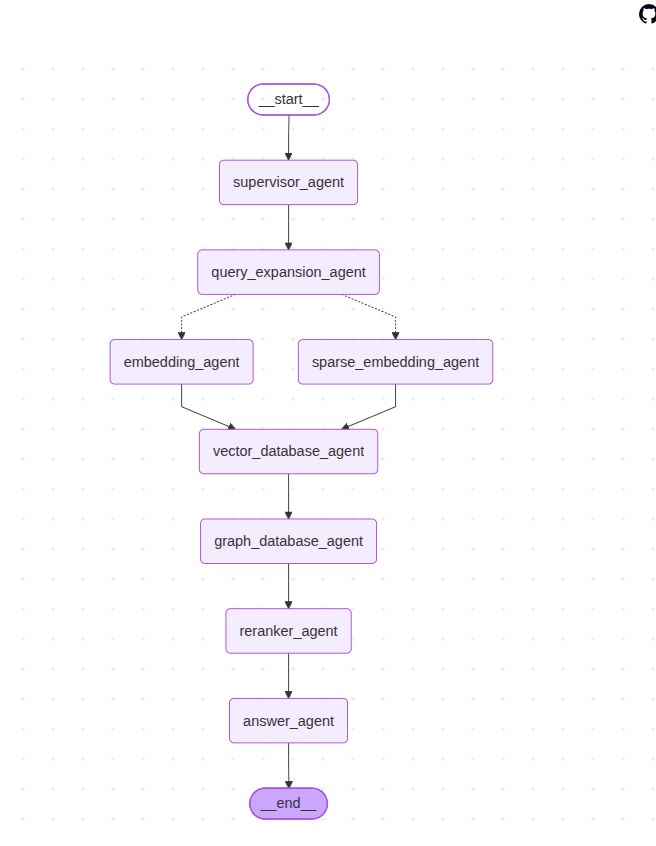
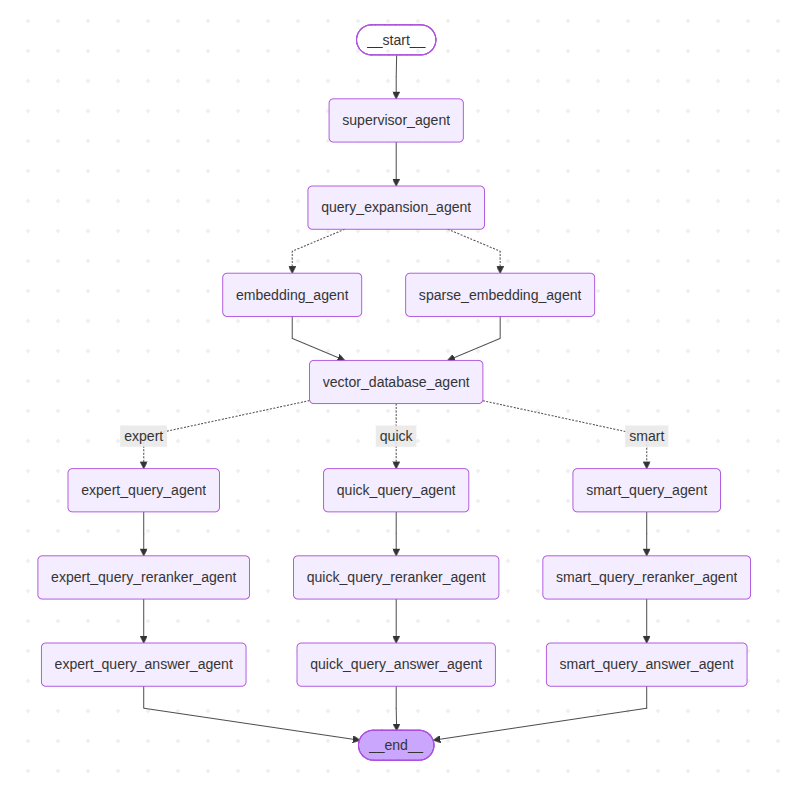
refactor smart query

diff --git a/app/core/workflow/lgraph/document_query_graph.py b/app/core/workflow/lgraph/document_query_graph.py
@@ -1,11 +1,11 @@
-from app.core.schemas.chunk_schema import ChunkQuerySchema, ChunkPrevNextVecSimilarity
+from app.core.schemas.chunk_schema import ChunkQuerySchema, ChunkPrevNextVecSimilarity, ContextChunk, ChunkRole, ROLE_PRIORITY
 from ..schemas.provider_schema import QueryProviderSchema, LLMProviderSchema
+from .prompts.answer_prompt import BASIC_ANSWER_PROMPT, SMART_ANSWER_PROMPT
 from qdrant_client.conversions.common_types import QueryResponse
 from ..provider import WorkflowEmbedder, WorkflowSparseEmbedder
 from app.core.qdrant.retrieval import QDrantRetrieval
 from ..provider import WorkflowReranker, WorkflowLLM
 from langgraph.graph import StateGraph, START, END
-from .prompts.answer_prompt import ANSWER_PROMPT
 from app.core.schemas import query_schema as qs
 from langchain_core.documents import Document
 from typing import TypedDict, Annotated, List
@@ -51,8 +51,8 @@ class DQGState(TypedDict):
     queries: list[str] | None
     document_id: uuid.UUID | None
     points: list[ScoredPoint] | None
-    chunks: list[ChunkQuerySchema] | None
-    reranked_chunks: list[ChunkQuerySchema] | None
+    chunks: list[ChunkQuerySchema | ContextChunk] | None
+    reranked_chunks: list[ChunkQuerySchema | ContextChunk] | None
     query_dense_embedding: Annotated[list[float] | None, merge_optional]
     query_sparse_embedding: Annotated[SparseEmbedding | None, merge_optional]
 
@@ -275,44 +275,96 @@ class DocumentQueryGraph():
 
             if points is None or len(points) == 0:
                 raise Exception("No points found")
+
             document_id = state["document_id"]
-            chunk_ids: list[str] = [
-                chunk_id
-                for p in points
-                if p.payload is not None and (chunk_id := p.payload.get("chunk_id")) is not None
-            ]
-            prev_next_vector_similar_chunks: List[ChunkPrevNextVecSimilarity] = await self._chunk_n4j.get_prev_next_vector_similar_chunks(chunk_ids=chunk_ids, gte__vector_score=Env.GTE_VECTOR_SIMILAR, document_id=document_id)
 
-            chunks: list[ChunkQuerySchema] = []
-            for c in prev_next_vector_similar_chunks:
-                prev_chunk_id = c.prev_chunk.chunk_id if c.prev_chunk is not None else None
-                prev_chunk_text = c.prev_chunk.text if c.prev_chunk is not None else None
-                prev_chunk_weight = c.prev_chunk.weight if c.prev_chunk is not None else None
+            # Building seed chunks from Qdrant points
+            seed_map: dict[str, ContextChunk] = {}
+            for p in points:
+                if p.payload is None:
+                    continue
+                chunk_id = p.payload.get("chunk_id")
+                text = p.payload.get("text")
+                if chunk_id is None or text is None:
+                    continue
+                seed_map[chunk_id] = ContextChunk(
+                    chunk_id=chunk_id,
+                    text=text,
+                    role=ChunkRole.SEED,
+                    vector_score=p.score,
+                    seed_chunk_ids=[chunk_id],
+                )
 
-                next_chunk_id = c.next_chunk.chunk_id if c.next_chunk is not None else None
-                next_chunk_text = c.next_chunk.text if c.next_chunk is not None else None
-                next_chunk_weight = c.next_chunk.weight if c.next_chunk is not None else None
+            chunk_ids = list(seed_map.keys())
 
-                if prev_chunk_id is not None and prev_chunk_text is not None and prev_chunk_weight is not None:
-                    chunks.append(ChunkQuerySchema(chunk_id=prev_chunk_id, text=prev_chunk_text, weight=prev_chunk_weight))
-                if next_chunk_id is not None and next_chunk_text is not None and next_chunk_weight is not None:
-                    chunks.append(ChunkQuerySchema(chunk_id=next_chunk_id, text=next_chunk_text, weight=next_chunk_weight))
+            prev_next_vs_chunks: List[ChunkPrevNextVecSimilarity] = (
+                await self._chunk_n4j.get_prev_next_vector_similar_chunks(
+                    chunk_ids=chunk_ids,
+                    gte__vector_score=Env.GTE_VECTOR_SIMILAR,
+                    document_id=document_id,
+                )
+            )
 
-                for vs_chunk in c.vector_similar_chunks or []:
-                    chunks.append(ChunkQuerySchema(chunk_id=vs_chunk.chunk_id, text=vs_chunk.text, weight=vs_chunk.weight))
+            # chunk_id -> ContextChunk, starts with seeds
+            merged: dict[str, ContextChunk] = dict(seed_map)
 
-            # Find unique chunks
-            unique_chunk_ids: list[str] = []
-            unique_chunks: list[ChunkQuerySchema] = []
+            def _merge(chunk_id: str, text: str, role: ChunkRole, seed_id: str,
+                    vector_score: float | None = None, position_weight: float | None = None):
+                if chunk_id in merged:
+                    existing = merged[chunk_id]
+                    # upgrade role if incoming has higher priority
+                    if ROLE_PRIORITY[role] < ROLE_PRIORITY[existing.role]:
+                        existing.role = role
+                        existing.vector_score = vector_score or existing.vector_score
+                        existing.position_weight = position_weight or existing.position_weight
+                    if seed_id not in existing.seed_chunk_ids:
+                        existing.seed_chunk_ids.append(seed_id)
+                else:
+                    merged[chunk_id] = ContextChunk(
+                        chunk_id=chunk_id,
+                        text=text,
+                        role=role,
+                        vector_score=vector_score,
+                        position_weight=position_weight,
+                        seed_chunk_ids=[seed_id],
+                    )
 
-            for chunk in chunks:
-                if chunk.chunk_id not in unique_chunk_ids:
-                    unique_chunk_ids.append(chunk.chunk_id)
-                    unique_chunks.append(chunk)
+            for c in prev_next_vs_chunks:
+                seed_id = c.chunk_id
 
+                if c.prev_chunk is not None:
+                    _merge(
+                        chunk_id=c.prev_chunk.chunk_id,
+                        text=c.prev_chunk.text,
+                        role=ChunkRole.PREV,
+                        seed_id=seed_id,
+                        position_weight=c.prev_chunk.weight,
+                    )
+
+                if c.next_chunk is not None:
+                    _merge(
+                        chunk_id=c.next_chunk.chunk_id,
+                        text=c.next_chunk.text,
+                        role=ChunkRole.NEXT,
+                        seed_id=seed_id,
+                        position_weight=c.next_chunk.weight,
+                    )
+
+                for vs in c.vector_similar_chunks or []:
+                    _merge(
+                        chunk_id=vs.chunk_id,
+                        text=vs.text,
+                        role=ChunkRole.VECTOR_SIMILAR,
+                        seed_id=seed_id,
+                        vector_score=vs.weight,
+                    )
+
+            unique_chunks = list(merged.values())
             return {"chunks": unique_chunks}
+
         except Exception as e:
             logger.error({"message": "Failed in smart query", "error": str(e)})
+            raise e
 
     async def _expert_query(self, state: DQGState):
         try:
@@ -328,6 +380,9 @@ class DocumentQueryGraph():
 
             if chunks is None or len(chunks) == 0:
                 raise Exception("No chunks found")
+
+            plain_chunks: list[ChunkQuerySchema] = [c for c in chunks if isinstance(c, ChunkQuerySchema)]
+
             providers = state["providers"]
             reranker_provider = providers.reranker.provider
             reranker_model = providers.reranker.model
@@ -335,7 +390,7 @@ class DocumentQueryGraph():
             reranker = WorkflowReranker().reranker(model=reranker_model, provider=reranker_provider)
 
             docs: list[Document] = []
-            for chunk in chunks:
+            for chunk in plain_chunks:
                 docs.append(Document(page_content=chunk.text, metadata={"chunk_id": chunk.chunk_id, "weight": chunk.weight}))
 
             rerank_docs = reranker.rerank(query=query, docs=docs, top_k=top_k)
@@ -357,11 +412,12 @@ class DocumentQueryGraph():
             if reranked_chunks is None or len(reranked_chunks) == 0:
                 raise Exception("No reranked chunks found")
 
+            plain_reranked_chunks: list[ChunkQuerySchema] = [c for c in reranked_chunks if isinstance(c, ChunkQuerySchema)]
             query = state["query"]
             providers = state["providers"]
             llm_provider = providers.llm
 
-            answer = await self._qq_llm_call(query=query, provider=llm_provider, reranked_chunks=reranked_chunks)
+            answer = await self._qq_llm_call(query=query, provider=llm_provider, reranked_chunks=plain_reranked_chunks)
 
             return {"answer": answer}
         except Exception as e:
@@ -375,7 +431,7 @@ class DocumentQueryGraph():
             model = provider.model
             chunks_str = self._qq_format_chunks(reranked_chunks)
 
-            prompt = ANSWER_PROMPT.format(context=chunks_str, query=query)
+            prompt = BASIC_ANSWER_PROMPT.format(context=chunks_str, query=query)
             llm = WorkflowLLM.llm(provider=llm_provider, api_key=api_key, model=model)
             response = await llm.ainvoke(prompt=prompt)
 
@@ -392,17 +448,154 @@ class DocumentQueryGraph():
 
     async def _sq_reranker(self, state: DQGState):
         try:
-            pass
+            query = state["query"]
+            chunks = state["chunks"]
+            if chunks is None or len(chunks) == 0:
+                raise Exception("No chunks found")
+
+            smart_chunks: list[ContextChunk] = [c for c in chunks if isinstance(c, ContextChunk)]
+
+            top_k = state["top_k"]
+
+            if not chunks:
+                raise Exception("No chunks found")
+
+            providers = state["providers"]
+            reranker_provider = providers.reranker.provider
+            reranker_model = providers.reranker.model
+
+            reranker = WorkflowReranker().reranker(model=reranker_model, provider=reranker_provider)
+
+            docs: list[Document] = [
+                Document(
+                    page_content=chunk.text,
+                    metadata={
+                        "chunk_id": chunk.chunk_id,
+                        "role": chunk.role,
+                        "vector_score": chunk.vector_score,
+                        "position_weight": chunk.position_weight,
+                        "seed_chunk_ids": chunk.seed_chunk_ids,
+                    },
+                )
+                for chunk in smart_chunks
+            ]
+
+            reranked_docs = reranker.rerank(query=query, docs=docs, top_k=top_k)
+
+            reranked_chunks: list[ContextChunk] = [
+                ContextChunk(
+                    chunk_id=doc.metadata["chunk_id"],
+                    text=doc.page_content,
+                    role=doc.metadata["role"],
+                    vector_score=doc.metadata["vector_score"],
+                    position_weight=doc.metadata["position_weight"],
+                    seed_chunk_ids=doc.metadata["seed_chunk_ids"],
+                )
+                for doc in reranked_docs
+            ]
+
+            return {"reranked_chunks": reranked_chunks}
         except Exception as e:
             logger.error({"message": "Failed to sq_reranker", "error": str(e)})
             raise e
 
     async def _sq_answer(self, state: DQGState):
         try:
-            pass
+            reranked_chunks = state["reranked_chunks"]
+            if reranked_chunks is None or len(reranked_chunks) == 0:
+                raise Exception("No reranked chunks found")
+
+            smart_reranked_chunks: list[ContextChunk] = [c for c in reranked_chunks if isinstance(c, ContextChunk)]
+            query = state["query"]
+            providers = state["providers"]
+            llm_provider = providers.llm
+
+            answer = await self._sq_llm_call(query=query, provider=llm_provider, reranked_chunks=smart_reranked_chunks)
+
+            return {"answer": answer}
         except Exception as e:
             logger.error({"message": "Failed to sq_answer", "error": str(e)})
             raise e
+
+    async def _sq_llm_call(
+        self,
+        query: str,
+        provider: LLMProviderSchema,
+        reranked_chunks: list[ContextChunk],
+    ) -> str:
+        try:
+            llm_provider = provider.provider
+            api_key = provider.api_key
+            model = provider.model
+
+            llm = WorkflowLLM.llm(provider=llm_provider, api_key=api_key, model=model)
+
+            context = self._sq_format_chunks(reranked_chunks)
+            prompt = SMART_ANSWER_PROMPT.format(context=context, query=query)
+
+            response = await llm.ainvoke(prompt=prompt)
+            return response.content
+
+        except Exception as e:
+            logger.error({"message": "Failed to llm call", "error": str(e)})
+            raise e
+
+    def _sq_format_chunks(self, chunks: list[ContextChunk]) -> str:
+        """
+        Groups chunks by their seed and renders a tree per seed.
+        Chunks that are seeds themselves are shown as roots.
+        PREV/NEXT/VECTOR_SIMILAR are shown underneath their seed(s).
+        """
+        # Collect seeds in order (preserve Qdrant ranking)
+        seed_ids: list[str] = [c.chunk_id for c in chunks if c.role == ChunkRole.SEED]
+
+        # Map seed_id -> list of attached context chunks
+        context_map: dict[str, list[ContextChunk]] = {sid: [] for sid in seed_ids}
+        orphans: list[ContextChunk] = []  # non-seed chunks whose seed wasn't in top results
+
+        for chunk in chunks:
+            if chunk.role == ChunkRole.SEED:
+                continue
+            attached = False
+            for sid in chunk.seed_chunk_ids:
+                if sid in context_map:
+                    context_map[sid].append(chunk)
+                    attached = True
+                    break
+            if not attached:
+                orphans.append(chunk)
+
+        seed_map: dict[str, ContextChunk] = {c.chunk_id: c for c in chunks if c.role == ChunkRole.SEED}
+
+        lines: list[str] = []
+
+        for i, sid in enumerate(seed_ids):
+            seed = seed_map[sid]
+            score_str = f"  (Qdrant score: {seed.vector_score:.4f})" if seed.vector_score is not None else ""
+            lines.append(f"[Seed {i + 1}]{score_str}")
+            lines.append(seed.text)
+
+            for ctx in context_map[sid]:
+                if ctx.role == ChunkRole.PREV:
+                    lines.append(f"\n  ↑ [PREV]  (position weight: {ctx.position_weight})")
+                    lines.append(f"  {ctx.text}")
+                elif ctx.role == ChunkRole.NEXT:
+                    lines.append(f"\n  ↓ [NEXT]  (position weight: {ctx.position_weight})")
+                    lines.append(f"  {ctx.text}")
+                elif ctx.role == ChunkRole.VECTOR_SIMILAR:
+                    lines.append(f"\n  ~ [VECTOR SIMILAR]  (similarity: {ctx.vector_score:.4f})")
+                    lines.append(f"  {ctx.text}")
+
+            lines.append("")  # blank line between seeds
+
+        if orphans:
+            lines.append("[Additional Context]")
+            for chunk in orphans:
+                lines.append(chunk.text)
+                lines.append("")
+
+        print(lines)
+        return "\n".join(lines)
 
     async def _eq_reranker(self, state: DQGState):
         try:

diff --git a/app/core/workflow/lgraph/prompts/answer_prompt.py b/app/core/workflow/lgraph/prompts/answer_prompt.py
@@ -1,6 +1,6 @@
 from langchain_core.prompts import ChatPromptTemplate
 
-SYSTEM_PROMPT = """
+BASIC_SYSTEM_PROMPT = """
 You are a knowledgeable and helpful assistant. Your job is to answer the user's query using ONLY the provided context chunks.
 
 STRICT RULES:
@@ -17,9 +17,35 @@ CONTEXT:
 """
 
 
-ANSWER_PROMPT = ChatPromptTemplate.from_messages([
-    ("system", SYSTEM_PROMPT),
+BASIC_ANSWER_PROMPT = ChatPromptTemplate.from_messages([
+    ("system", BASIC_SYSTEM_PROMPT),
     ("human", "{query}")
+])
+
+
+SMART_SYSTEM_PROMPT = """
+You are an expert assistant. Answer the user's question using ONLY the context provided below.
+
+The context is organized by Seed Chunks (most relevant results), each with optional surrounding and semantically similar chunks:
+- [SEED]: Directly retrieved as most relevant. Trust these most.
+- [PREV] / [NEXT]: Sequential neighbours giving surrounding context.
+- [VECTOR SIMILAR]: Semantically related chunks (similarity score shown).
+
+Rules:
+- Synthesize across all chunks — do not answer from a single chunk in isolation.
+- If a PREV/NEXT chunk adds context to a SEED, use it.
+- If the answer is not present in the context, say: "I don't have enough information to answer this."
+- Do not hallucinate or use outside knowledge.
+- Be concise and precise.
+
+Context:
+{context}"""
+
+SMART_ANSWER_PROMPT = ChatPromptTemplate.from_messages([
+    (
+        "system", SMART_SYSTEM_PROMPT
+    ),
+    ("human", "{query}"),
 ])
 
 